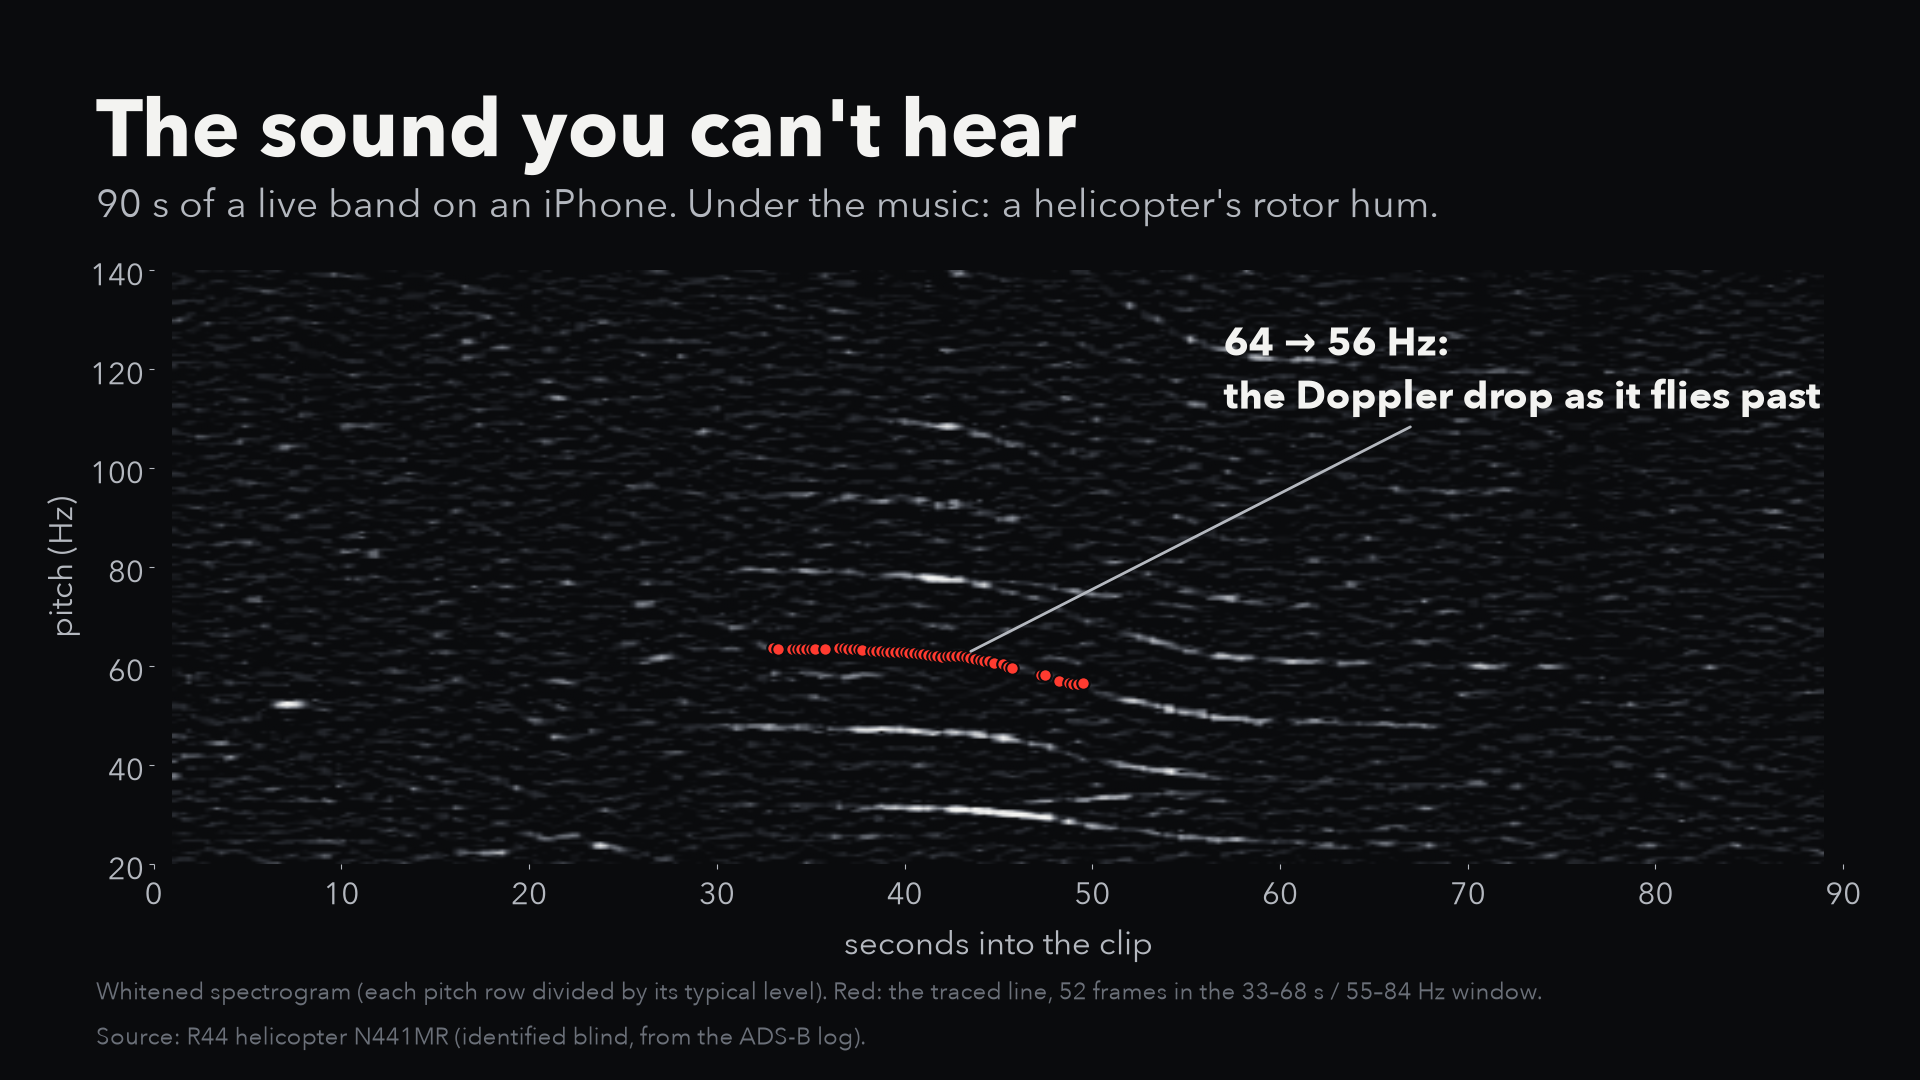
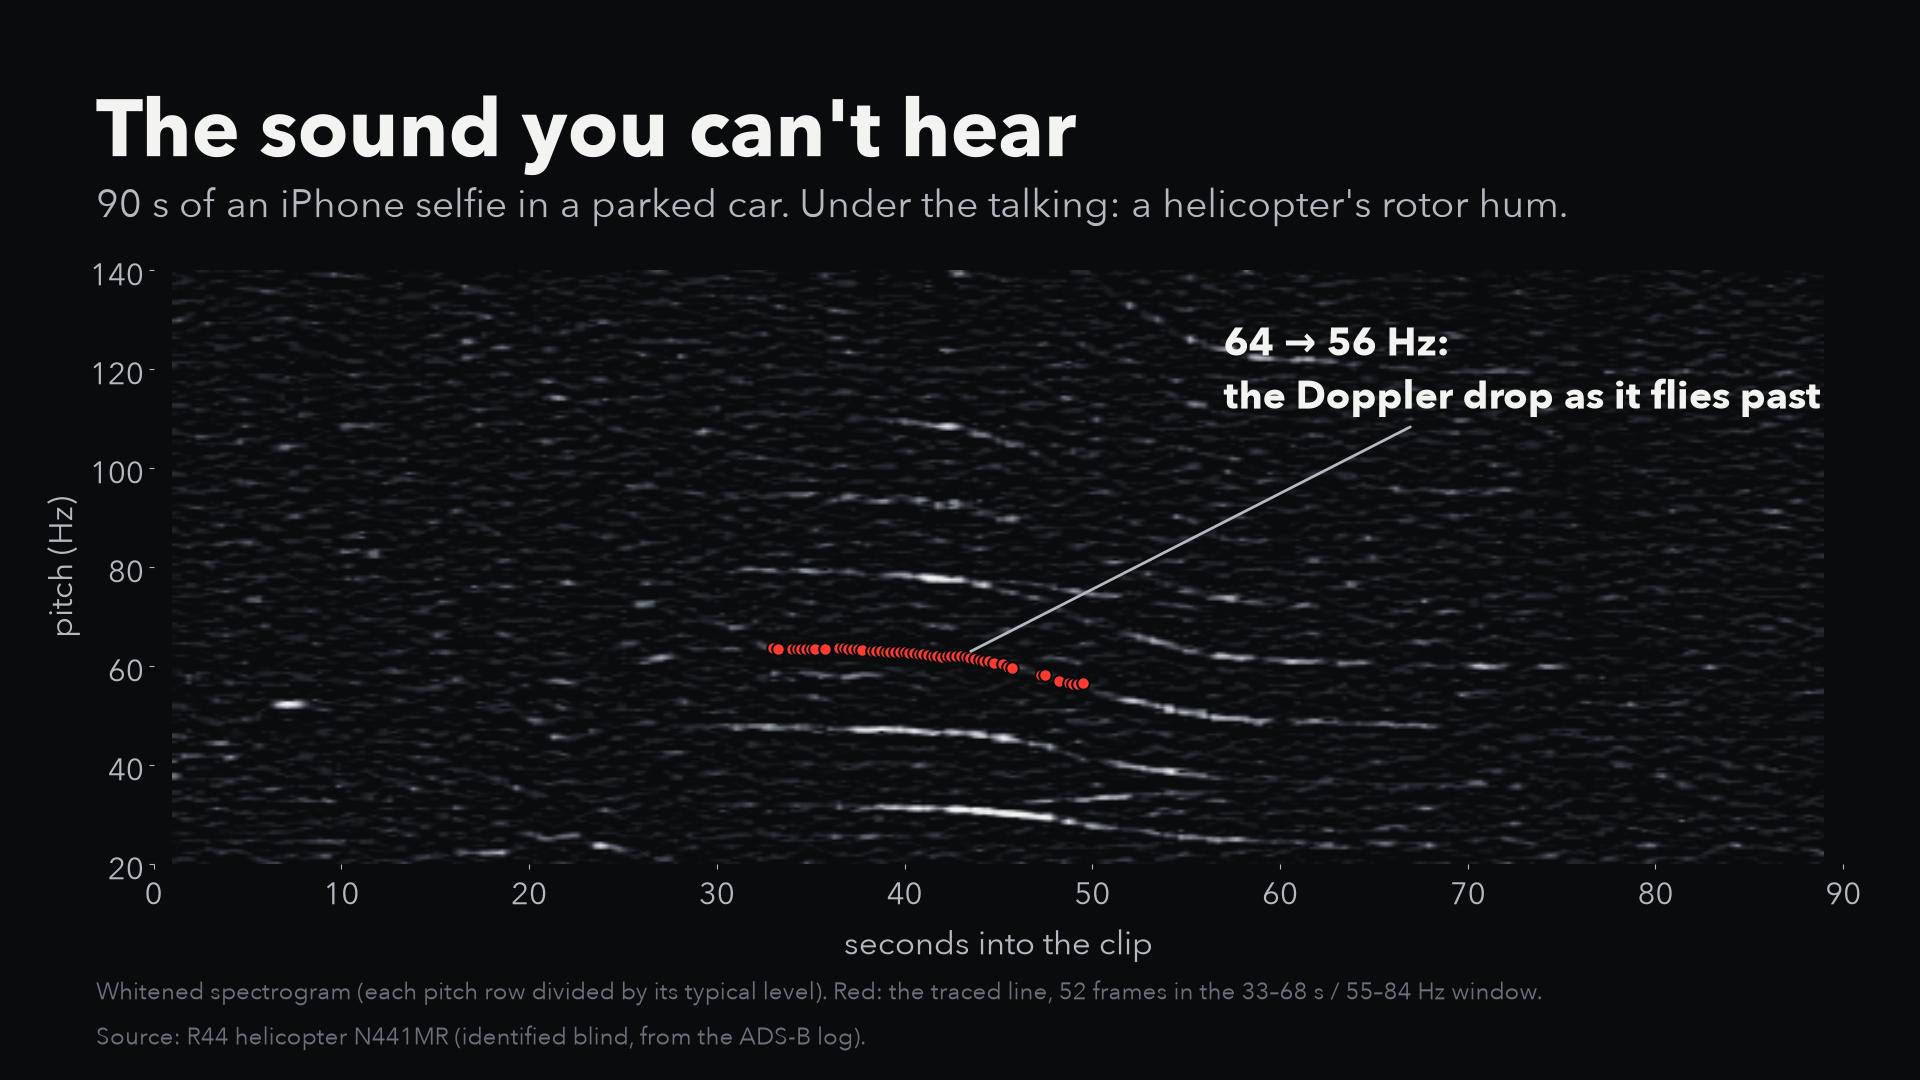
Correct the car-clip description, withhold its audio, add the loud-band counterexample
- The helicopter proof of concept is a 90 s selfie in a parked car, not a live
  band; its audio is a private conversation and is no longer published
  (band-poc/ -> helicopter-poc/, flight logs and ground truth kept).
  run_poc.py and make_video_figures.py now take the audio as an input.
- A real 2-minute band video with a Cessna 200 m away is not located: loud music
  is the one thing in the study that hid a close light aircraft.
- flyover-audit: a flat time-reversed null no longer yields an absurd signal
  ratio (seen as 9e8x chance on a jet); it reports no usable chance baseline.

Changed region(s): [[0.125, 0.1833, 0.8125, 0.2139]]

diff --git a/research/scripts/make_video_figures.py b/research/scripts/make_video_figures.py
@@ -3,7 +3,7 @@
     uv run --with matplotlib python research/scripts/make_video_figures.py
 
 Writes 1920x1080 PNGs to research/figures/video/. Every number is either computed
-here from repo files (band clip, ADS-B logs, research/data/*) or is a ladder
+here from repo files (car clip, ADS-B logs, research/data/*) or is a ladder
 line-strength figure from the research notes (LADDER_* constants below).
 
 Privacy: locations are only ever shown in metres east/north of the true spot.
@@ -12,6 +12,7 @@ No latitude/longitude is printed or plotted, and there are no maps.
 
 import csv
 import json
+import os
 import tempfile
 from datetime import datetime
 from pathlib import Path
@@ -32,7 +33,10 @@ from flyover_scrub.physics import received_doppler
 from flyover_scrub.trace import locate_trace, trace_ridge
 
 ROOT = Path(__file__).resolve().parents[2]
-POC = ROOT / "research" / "band-poc"
+POC = ROOT / "research" / "helicopter-poc"
+# The clip's audio is withheld (private). Point AUDIO_DIR at a folder holding IMG_4367_cut.m4a
+# and IMG_4367_cut_scrubbed.m4a to rebuild the spectrogram figures.
+AUDIO_DIR = Path(os.environ.get("AUDIO_DIR", POC))
 DATA = ROOT / "research" / "data"
 OUT = ROOT / "research" / "figures" / "video"
 OUT.mkdir(parents=True, exist_ok=True)
@@ -94,7 +98,7 @@ def save(fig, name):
 # ---------------------------------------------------------------- compute
 def load_audio(name):
     with tempfile.TemporaryDirectory() as td:
-        x, sr = _read(POC / name, Path(td))
+        x, sr = _read(AUDIO_DIR / name, Path(td))
     return resample_poly(x.mean(axis=1), 160, sr // 100)
 
 
@@ -102,8 +106,8 @@ rec = json.loads((POC / "recording.json").read_text())
 t0 = datetime.fromisoformat(rec["start"]).timestamp()
 tlo, thi, flo, fhi = BAND
 
-spec_o = whitened_spectrogram(load_audio(rec["file"]), 16000, window_s=2.0)
-spec_s = whitened_spectrogram(load_audio(rec["file"].replace(".m4a", "_scrubbed.m4a")), 16000, window_s=2.0)
+spec_o = whitened_spectrogram(load_audio("IMG_4367_cut.m4a"), 16000, window_s=2.0)
+spec_s = whitened_spectrogram(load_audio("IMG_4367_cut_scrubbed.m4a"), 16000, window_s=2.0)
 ridge = trace_ridge(spec_o, f_range=(flo, fhi), t_range=(tlo, thi))
 ridge_s = trace_ridge(spec_s, f_range=(flo, fhi), t_range=(tlo, thi))
 print(f"traced frames: original {len(ridge)}, scrubbed {len(ridge_s)}")
@@ -175,7 +179,7 @@ def spec_panel(ax, spec, fmax=140):
 
 def fig_hidden_line():
     fig = canvas()
-    headline(fig, "The sound you can't hear", "90 s of a live band on an iPhone. Under the music: a helicopter's rotor hum.")
+    headline(fig, "The sound you can't hear", "90 s of an iPhone selfie in a parked car. Under the talking: a helicopter's rotor hum.")
     ax = fig.add_axes([0.08, 0.20, 0.88, 0.55])
     spec_panel(ax, spec_o)
     ax.plot(ridge.t, ridge.f, "o", color=RED, ms=9, mec=BG, mew=1.5, zorder=3)
@@ -300,7 +304,7 @@ def fig_ladder():
     ax.set_xlim(-0.5, len(clips) - 0.5)
     ax.set_ylim(len(chains) - 0.5, -1.4)
     for j, clip in enumerate(clips):
-        ax.text(j, -1.05, {"cessna": "Cessna clip", "band": "band clip"}.get(clip, clip), ha="center",
+        ax.text(j, -1.05, {"cessna": "Cessna clip", "car": "car clip"}.get(clip, clip), ha="center",
                 fontsize=21, fontweight="bold", color=INK2)
         for i, ch in enumerate(chains):
             ok = by[(clip, ch)]["right_aircraft"] == "True"
@@ -313,7 +317,7 @@ def fig_ladder():
     ax.tick_params(axis="y", length=0)
     for s in ax.spines.values():
         s.set_visible(False)
-    footer(fig, "Same blind attack after each re-encode. Misses: band clip at AAC 32k and AMR phone call.")
+    footer(fig, "Same blind attack after each re-encode. Misses: car clip at AAC 32k and AMR phone call.")
     return save(fig, "04_reencoding_doesnt_hide_it.png")
 
 

diff --git a/research/scripts/run_poc.py b/research/scripts/run_poc.py
@@ -1,6 +1,9 @@
-"""Reproduce the band-clip proof of concept: a blind trace-fit attack over every aircraft in the log.
+"""Reproduce the car-clip proof of concept: a blind trace-fit attack over every aircraft in the log.
 
-    uv run --with matplotlib python research/scripts/run_poc.py research/band-poc
+    uv run --with matplotlib python research/scripts/run_poc.py research/helicopter-poc --audio IMG_4367_cut.m4a
+
+The clip's audio is not published (a private conversation); pass it, or your own recording with
+a recording.json and flights/ directory laid out the same way.
 
 For each aircraft in flights/, the traced ridge is fitted at every candidate
 location in a 10 x 10 km box (the box centre is randomly offset from the truth,
@@ -25,24 +28,23 @@ from flyover_scrub.trace import locate_trace, reversal_ratio, trace_ridge
 
 ap = argparse.ArgumentParser()
 ap.add_argument("poc_dir", type=Path)
-ap.add_argument("--scrubbed", action="store_true")
+ap.add_argument("--audio", type=Path, required=True, help="the recording (not in the repo)")
 ap.add_argument("--band", default="33,68,55,84", help="t_lo,t_hi,f_lo,f_hi the attacker reads off the spectrogram")
 ap.add_argument("--plot", type=Path)
 a = ap.parse_args()
 
 rec = json.loads((a.poc_dir / "recording.json").read_text())
-name = rec["file"].replace(".m4a", "_scrubbed.m4a") if a.scrubbed else rec["file"]
 import tempfile
 
 with tempfile.TemporaryDirectory() as td:
-    x, sr = _read(a.poc_dir / name, Path(td))
+    x, sr = _read(a.audio, Path(td))
 audio = resample_poly(x.mean(axis=1), 160, sr // 100)
 t0 = datetime.fromisoformat(rec["start"]).timestamp()
 tlo, thi, flo, fhi = map(float, a.band.split(","))
 
 spec = whitened_spectrogram(audio, 16000, window_s=2.0)
 ridge = trace_ridge(spec, f_range=(flo, fhi), t_range=(tlo, thi))
-print(f"{name}: traced {len(ridge)} frames in {flo:g}-{fhi:g} Hz")
+print(f"{a.audio.name}: traced {len(ridge)} frames in {flo:g}-{fhi:g} Hz")
 if len(ridge) < 20:
     print("no traceable line: nothing to fit")
     raise SystemExit

diff --git a/src/flyover_scrub/audit.py b/src/flyover_scrub/audit.py
@@ -110,10 +110,13 @@ def audit_flight(audio, t0, trk, *, half_width, label, log, trace=None):
                   f0_range=(f0 - 3, f0 + 3), offsets=offsets).scores
     null = null[np.isfinite(null)]
     med = float(np.median(null))
-    strength = (s["top_score"] - med) / max(float(null.max()) - med, 1e-9)
+    spread = float(null.max()) - med if null.size else 0.0
+    # A flat null (too few finite candidates, or no coverage) gives no chance baseline;
+    # dividing by it produced absurd "signal" (e.g. 9e8x chance) on a jet in a real clip.
+    strength = (s["top_score"] - med) / spread if null.size >= 50 and spread > 1e-6 else float("nan")
     s.update({"cpa_horizontal_m": float(np.nanmin(r)), "f0_hz": f0, "variant": label,
               "strength_vs_chance": float(strength)})
-    real = strength >= 4.0  # measured: aircraft-free ~0.5, scrubbed ~1-2, inaudible synthetic flyover ~25
+    real = bool(np.isfinite(strength) and strength >= 4.0)  # measured: aircraft-free ~0.5, scrubbed ~1-2, inaudible synthetic flyover ~25
     near = s["top_error_m"] <= 300 or (s["truth_rank"] is not None and s["truth_rank"] <= 10)
     if real and s["top_error_m"] <= 300:
         s["verdict"] = "EXPOSED"
@@ -121,10 +124,12 @@ def audit_flight(audio, t0, trk, *, half_width, label, log, trace=None):
         s["verdict"] = "partly exposed"
     elif real:
         s["verdict"] = "signal, but points elsewhere"
-    elif near and strength >= 2.0:
+    elif near and np.isfinite(strength) and strength >= 2.0:
         # A real Cessna flyover scored ~2-3x chance here yet put the true spot first:
         # real lines are weaker for this scorer than synthetic ones. Err towards warning.
         s["verdict"] = "possibly exposed"
+    elif not np.isfinite(strength):
+        s["verdict"] = "not located (no usable chance baseline)"
     else:
         s["verdict"] = "not located"
     if trace is not None:

diff --git a/research/README.md b/research/README.md
@@ -13,7 +13,7 @@ from the [adsb.lol](https://adsb.lol) community archive.
 
 ## TL;DR
 
-* **The attack works on ordinary phone videos.** In a 90 s clip of a live band, a helicopter nobody noticed is
+* **The attack works on ordinary phone videos.** In a 90 s selfie video recorded in a parked car, a helicopter nobody noticed is
   enough to pick the right aircraft out of 18 and put the recording within ~800 m. In a 90 s indoor selfie, a
   Cessna 1 km away located the phone to **61–134 m**.
 * **Re-encoding doesn't save you.** Through 17 codecs and filters (AAC, HE-AAC, Opus down to 8 kbps VoIP, MP3, the
@@ -33,10 +33,10 @@ the result.
 
 | Clip | What's in it | Hidden aircraft | Aircraft tested | Picked | Error | After flyover-scrub |
 |---|---|---|---|---|---|---|
-| Band (`band-poc/`) | 90 s of a live band, outdoors | R44 helicopter N441MR, closest 0.3 km | 18 with coverage | **right one** (fit 4.9 cents; next best 19.6) | 787 m | no traceable line |
+| Car selfie (`helicopter-poc/`) | 90 s, talking in a parked car | R44 helicopter N441MR, closest 0.3 km | 18 with coverage | **right one** (fit 4.9 cents; next best 19.6) | 787 m | no traceable line |
 | Cessna selfie | 90 s indoor talking, nothing audible | Cessna 172, closest ~1 km | 12 | **right one** | 61–134 m (true spot rank 1–9 of ~4,800) | no traceable line; audit 1.9 km, rank 471 |
 
-The band clip's error is mostly along the helicopter's track. A clock error and an along-track shift produce
+The car clip's error is mostly along the helicopter's track. A clock error and an along-track shift produce
 almost the same Doppler curve, and the fit chose a −6.75 s clock offset. With a second aircraft or a known clock it
 would tighten.
 
@@ -46,12 +46,20 @@ give the address to anyone who reran this. Only its numbers are here.
 ![The sound you can't hear](figures/video/01_the_sound_you_cant_hear.png)
 ![flyover-scrub: the line is gone](figures/video/06_before_after_scrub.png)
 
-Reproduce the band clip (audio, flight logs and ground truth are in `band-poc/`):
+**Neither clip's audio is published**: both are private conversations. `helicopter-poc/` has the flight logs
+and ground truth for the car clip, and `run_poc.py` reproduces the result for anyone with the audio (or on your own recording):
 
 ```sh
-uv run --with matplotlib python research/scripts/run_poc.py research/band-poc --plot band.png
-uv run python research/scripts/run_poc.py research/band-poc --scrubbed
+uv run --with matplotlib python research/scripts/run_poc.py research/helicopter-poc --audio IMG_4367_cut.m4a --plot fit.png
+uv run python research/scripts/run_poc.py research/helicopter-poc --audio IMG_4367_cut_scrubbed.m4a
 ```
+
+### A counterexample: a loud band
+
+A 2-minute video of a band playing (2024, Portland) had a Cessna 172 pass **200 m** away mid-song. No line is
+visible under the music, and the audit ranks the true spot 1,545th of 1,593, no better than chance. Loud, broadband,
+constantly changing music is the one thing in this study that hid a close light aircraft. It's not a defence you can
+count on: the same audit found lines under talking, and a quieter song or a gap between songs would expose it.
 
 ### Why trace-fit and not the brightness scorer
 
@@ -64,7 +72,7 @@ well on synthetic flyovers. On these real clips it was weak once its pitch was n
 2. For each candidate spot, the flight track gives the Doppler factor g(t). The source pitch is solved in closed form
    (log f = log f0 + log g), and the score is the RMS residual in cents.
 3. Lowest residual wins. As a chance check, the reversed line is fitted too: a real flyover only ever falls in pitch.
-   On the band clip the reversed fit is 10× worse; for an unrelated aircraft it's 0.4×.
+   On the car clip the reversed fit is 10× worse; for an unrelated aircraft it's 0.4×.
 
 ## 2. Codec and processing ladder
 
@@ -73,7 +81,7 @@ well on synthetic flyovers. On these real clips it was weak once its pitch was n
 Each clip was encoded and decoded through each chain, then the blind attack was rerun
 ([`data/codec_ladder_attack.csv`](data/codec_ladder_attack.csv), [`scripts/ladder.sh`](scripts/ladder.sh)).
 
-| Chain | Cessna clip | Band clip |
+| Chain | Cessna clip | Car (helicopter) clip |
 |---|---|---|
 | Reference (lossless) | right aircraft, 134 m | right aircraft, 787 m |
 | AAC 128k (Apple / ffmpeg), 64k | right, 61–417 m | right, 787 m |
@@ -173,15 +181,15 @@ Recorded away from home, matched to their iPhone camera originals and measured a
   while the true spot was ranked first. There's now a "possibly exposed" tier (true spot top 10 or top guess
   within 300 m, signal ≥ 2× chance).
 * **`flyover-audit --trace T_LO,T_HI,F_LO,F_HI`** runs the trace-fit attack on a line you can see in the spectrogram,
-  with the reversal check. On the band clip it reports "partly exposed" (806 m) where the brightness scorer saw nothing.
+  with the reversal check. On the car clip it reports "partly exposed" (806 m) where the brightness scorer saw nothing.
 
 ## Files
 
 ```
-band-poc/                 the band clip (original and scrubbed audio), ADS-B for every aircraft nearby, ground truth
+helicopter-poc/           ADS-B for every aircraft near the car clip, and its ground truth (audio withheld)
 data/                     ladder, line-strength and platform measurements (CSV and JSON)
 figures/                  plots; figures/video/ = 1920x1080 video graphics (scripts/make_video_figures.py)
-scripts/run_poc.py        reproduce the band proof of concept from the repo
+scripts/run_poc.py        reproduce the car-clip proof of concept (needs the audio)
 scripts/ladder.sh         codec/processing ladder (+ trace_attack_research.py, the script it calls)
 scripts/linesnr.py        line strength through each chain
 scripts/probes.py         TikTok app save vs TikTok vs Instagram tonal-probe survival
@@ -191,7 +199,7 @@ scripts/screen_heatmaps.py  finds which of your own clips had a close aircraft p
 ```
 
 The research scripts were run in a scratch directory and expect its layout (`aud/<clip>.wav` + `.meta`, flight-log
-directories). `run_poc.py` runs as-is from the repo.
+directories). `run_poc.py` runs on any recording plus its flight logs.
 
 ## Credits
 

diff --git a/README.md b/README.md
@@ -8,7 +8,7 @@ The attack was shown by **colsto** in
 ([@colsto](https://www.youtube.com/@colsto)). This repo is a defence against it, plus an independent replication.
 
 > **It works on real phone videos.** On my own iPhone videos and public ADS-B data, a Cessna nobody could hear
-> located an indoor selfie to 61–134 m, and a helicopter behind a live band picked the right aircraft out of 18.
+> located an indoor selfie to 61–134 m, and a helicopter heard from a parked car picked the right aircraft out of 18.
 > It survived 32 of 34 codec and filter chains, and TikTok passes faint tones through untouched.
 > Full write-up, data and a reproducible proof of concept: [`research/`](research/README.md).
 
